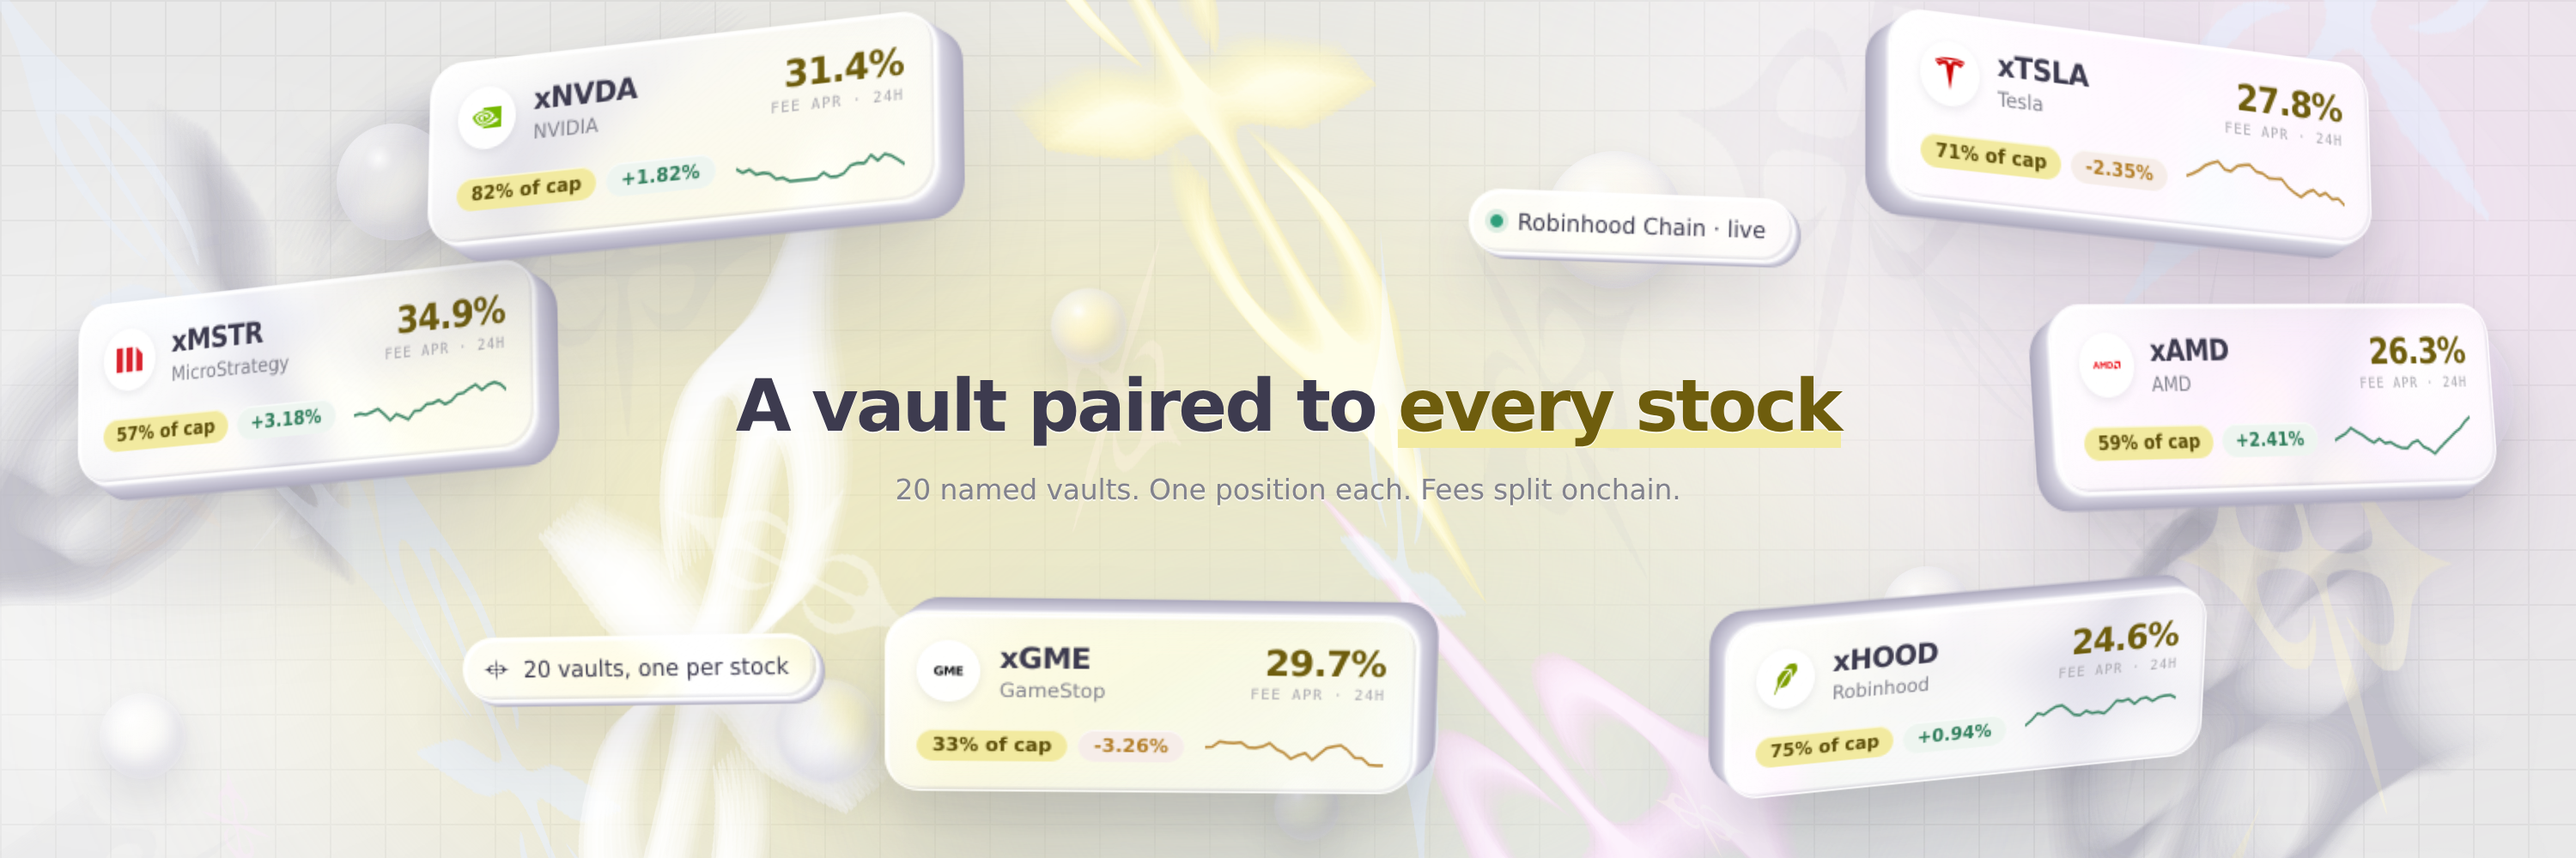
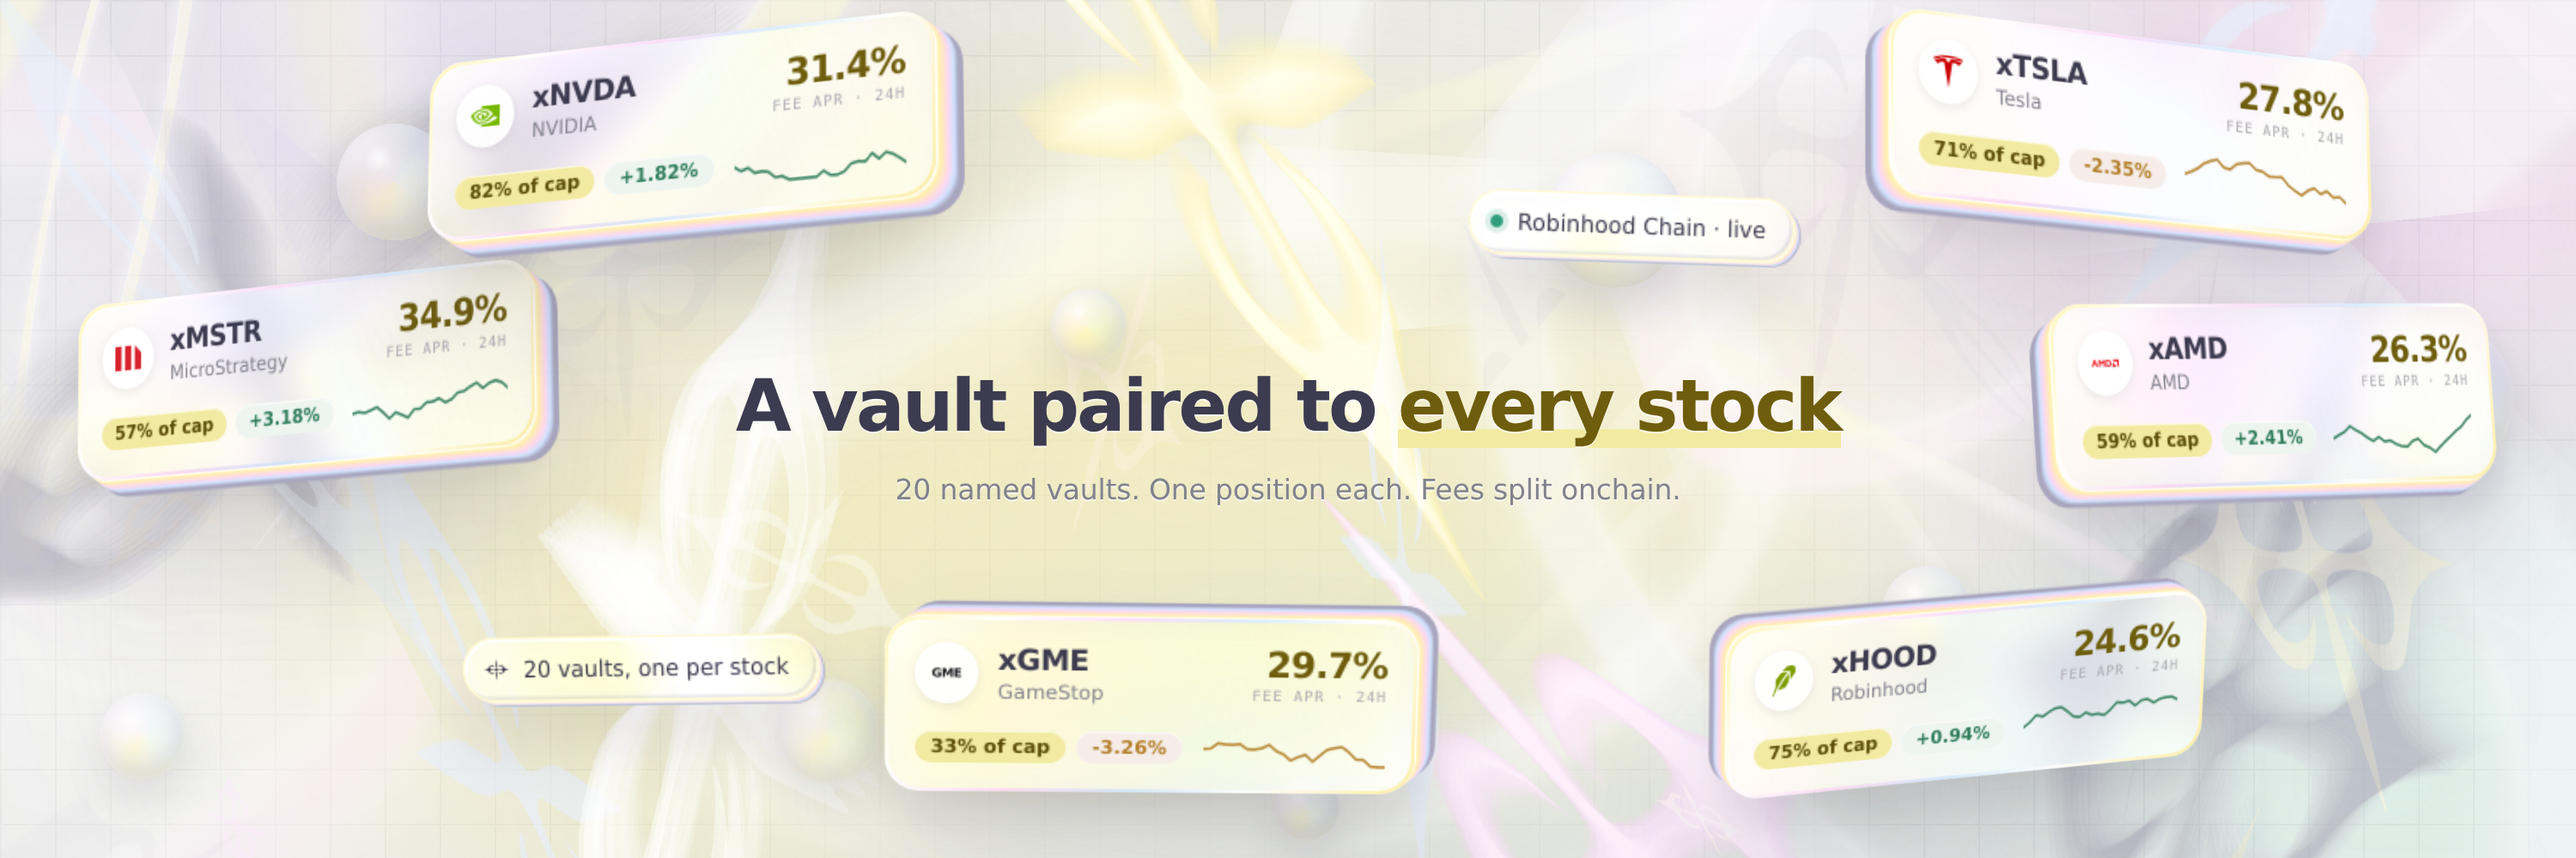
The header splits the light
Everything on it goes further through, and what comes through comes apart.

The slabs drop to around a quarter white and lean on a 22px backdrop blur, so
the scene behind is genuinely visible through them rather than tinted. Their
cut edges stop ramping through neutral grey: white light through a thick
edge disperses, so the ramp runs white, then a wide yellow band, then magenta,
then blue, then the shadow -- the yellow widest because that one is the
brand's. The border comes off and a gradient rim replaces it, carrying the
same spectrum with yellow at both ends. The pills' steps and the beads take
the same treatment, the beads with a conic sweep under their highlight.

The background stops being washes. A thick-bordered ellipse turned out of
plane reads as a tube of glass, so there are eight of them now at different
scales, tints and blurs, with fourteen caustics -- the bright lines light
draws as it comes through -- laid over them. The brand's shards stay but drop
to under half their opacity, behind the glass rather than in front of it.
Three more washes join the five: mint, lilac and a second yellow.

Claude-Session: https://claude.ai/code/session_01WE3rjawbSAaoLq39GWadM9

diff --git a/vesica-site/brand/x-header.html b/vesica-site/brand/x-header.html
@@ -34,11 +34,35 @@
 
   /* ---- the washes the light comes from ---- */
   .glow { position:absolute; border-radius:50%; filter:blur(100px); pointer-events:none; }
-  .g1 { width:860px; height:460px; left:210px; top:100px; background:rgba(242,234,160,.55); }
-  .g2 { width:560px; height:400px; left:1040px; top:-80px; background:rgba(255,207,254,.30); }
-  .g3 { width:500px; height:340px; left:-160px; top:170px; background:rgba(255,255,255,.62); }
-  .g4 { width:620px; height:300px; left:520px; top:300px; background:rgba(214,226,255,.38); }
-  .g5 { width:380px; height:380px; left:880px; top:-60px; background:rgba(255,255,255,.55); }
+  .g1 { width:900px; height:480px; left:190px; top:90px;  background:rgba(246,236,150,.50); }
+  .g2 { width:560px; height:400px; left:1040px; top:-80px; background:rgba(255,197,250,.34); }
+  .g3 { width:500px; height:340px; left:-160px; top:170px; background:rgba(255,255,255,.55); }
+  .g4 { width:620px; height:300px; left:500px; top:310px;  background:rgba(198,216,255,.42); }
+  .g5 { width:380px; height:380px; left:880px; top:-70px;  background:rgba(255,255,255,.48); }
+  .g6 { width:460px; height:320px; left:1180px; top:250px; background:rgba(186,255,226,.30); }
+  .g7 { width:420px; height:300px; left:40px;  top:-90px;  background:rgba(214,196,255,.30); }
+  .g8 { width:700px; height:260px; left:420px; top:150px;  background:rgba(255,246,190,.40); }
+
+
+  /* ---- the glass scene ----
+     A thick-bordered ellipse turned out of plane reads as a tube of glass; a
+     handful at different scales, tints and blurs is the refractive field the
+     reference is built on. The caustics are the bright lines light draws as
+     it comes through. */
+  .glass { position:absolute; inset:-120px; transform-style:preserve-3d; pointer-events:none; }
+  .rb {
+    position:absolute; display:block; border-radius:50%; border-style:solid;
+    box-shadow:
+      inset 0 0 60px rgba(255,255,255,.75),
+      inset 0 0 0 2px rgba(255,255,255,.85),
+      0 0 70px rgba(255,255,255,.45);
+  }
+  .ca {
+    position:absolute; display:block; border-radius:999px;
+    background:linear-gradient(90deg,
+      rgba(255,255,255,0), rgba(255,252,222,.95) 30%,
+      rgba(255,255,255,1) 52%, rgba(255,232,250,.85) 74%, rgba(255,255,255,0));
+  }
 
   /* ---- the mark, shattered through the depth of the frame ----
      Copies of the one path, each at its own z, its own pair of out-of-plane
@@ -60,10 +84,14 @@
     position:absolute; border-radius:50%; pointer-events:none;
     /* hollow, not milky: the middle is nearly clear so the field reads
        straight through, and the sphere is made of its highlight and its rim */
-    background:radial-gradient(circle at 36% 30%,
-      rgba(255,255,255,.96) 0%, rgba(255,255,255,.34) 13%,
-      rgba(255,255,255,.05) 34%, rgba(176,174,204,.10) 60%,
-      rgba(255,255,255,.58) 89%, rgba(255,255,255,.14) 100%);
+    background:
+      radial-gradient(circle at 36% 30%,
+        rgba(255,255,255,.96) 0%, rgba(255,255,255,.34) 13%,
+        rgba(255,255,255,.04) 34%, rgba(176,174,204,.08) 60%,
+        rgba(255,251,205,.62) 86%, rgba(255,214,246,.34) 94%, rgba(255,255,255,.10) 100%),
+      conic-gradient(from 210deg,
+        rgba(255,240,150,.30), rgba(255,208,244,.16), rgba(190,226,255,.18),
+        rgba(198,255,228,.12), rgba(255,240,150,.30));
     box-shadow:
       inset -2px -4px 15px rgba(116,114,152,.24),
       inset 3px 4px 13px rgba(255,255,255,.75),
@@ -80,15 +108,32 @@
   .card {
     position:absolute; z-index:5; border-radius:20px;
     background:linear-gradient(145deg,
-      rgba(255,255,255,.66) 0%, rgba(255,255,255,.38) 44%, rgba(255,255,255,.56) 100%);
-    border:1px solid rgba(255,255,255,.72);
-    backdrop-filter:blur(20px) saturate(1.7) brightness(1.06);
+      rgba(255,255,255,.42) 0%, rgba(255,255,255,.20) 46%, rgba(255,255,255,.34) 100%);
+    border:0;
+    backdrop-filter:blur(22px) saturate(1.75) brightness(1.08);
   }
   .card::before {
     content:""; position:absolute; inset:0; border-radius:inherit; pointer-events:none;
-    background:linear-gradient(118deg,
-      rgba(255,255,255,.85) 0%, rgba(255,255,255,0) 24%,
-      rgba(255,255,255,0) 70%, rgba(255,255,255,.42) 100%);
+    background:
+      linear-gradient(118deg,
+        rgba(255,255,255,.80) 0%, rgba(255,255,255,0) 22%,
+        rgba(255,255,255,0) 68%, rgba(255,255,255,.40) 100%),
+      linear-gradient(72deg,
+        rgba(255,244,182,.20) 0%, rgba(255,214,248,.09) 33%,
+        rgba(200,231,255,.09) 57%, rgba(255,246,196,.17) 100%);
+  }
+  /* the rim is where a thick edge splits the light hardest, so it carries the
+     spectrum outright -- yellow at both ends, because that one is the brand's */
+  .card::after {
+    content:""; position:absolute; inset:0; border-radius:inherit; pointer-events:none;
+    padding:1.6px;
+    background:linear-gradient(125deg,
+      rgba(255,246,180,.98) 0%, rgba(255,255,255,.92) 17%,
+      rgba(255,212,246,.72) 37%, rgba(202,230,255,.68) 56%,
+      rgba(255,255,255,.88) 74%, rgba(255,238,160,.98) 100%);
+    -webkit-mask:linear-gradient(#000 0 0) content-box, linear-gradient(#000 0 0);
+    -webkit-mask-composite:xor; mask:linear-gradient(#000 0 0) content-box, linear-gradient(#000 0 0);
+    mask-composite:exclude;
   }
   .vc { width:304px; padding:15px 17px 14px; }
   .vc > * { position:relative; z-index:1; }
@@ -117,124 +162,124 @@
   .v1 { left:40px; top:166px; transform:translateZ(46px) rotateX(6deg) rotateY(-17deg) rotateZ(-3deg);
     box-shadow:
       1.0px 0.7px 0 #FFFFFF,
-      2.0px 1.4px 0 #F1F1F5,
-      3.0px 2.1px 0 #E4E2EB,
-      4.0px 2.8px 0 #D6D4E1,
-      5.0px 3.5px 0 #D2D0DD,
-      6.0px 4.2px 0 #CECCDA,
-      7.0px 4.9px 0 #CAC8D7,
-      8.0px 5.6px 0 #C7C4D4,
-      9.0px 6.3px 0 #C3C1D1,
-      10.0px 7.0px 0 #BFBDCE,
-      11.0px 7.7px 0 #BCB9CA,
-      12.0px 8.4px 0 #B8B5C7,
-      13.0px 9.1px 0 #B4B2C4,
-      14.0px 9.8px 0 #B1AEC1,
-      15.0px 10.5px 0 #ADAABE,
-      0 46px 78px rgba(61,59,79,.18),
-      0 12px 24px rgba(61,59,79,.10),
-      inset 1.5px 1.5px 0 rgba(255,255,255,.96),
-      inset -1.5px -1.5px 0 rgba(138,136,162,.20); }
+      2.0px 1.4px 0 #FFF6C1,
+      3.0px 2.1px 0 #FFEFB1,
+      4.0px 2.8px 0 #FFE9C0,
+      5.0px 3.5px 0 #FFE4CF,
+      6.0px 4.2px 0 #FFDEDE,
+      7.0px 4.9px 0 #FFD9EE,
+      8.0px 5.6px 0 #F2DBF4,
+      9.0px 6.3px 0 #E2DFF9,
+      10.0px 7.0px 0 #D3E2FE,
+      11.0px 7.7px 0 #C4D1EB,
+      12.0px 8.4px 0 #B4B8D2,
+      13.0px 9.1px 0 #A9A6BE,
+      14.0px 9.8px 0 #A9A6BE,
+      15.0px 10.5px 0 #A9A6BE,
+      0 46px 78px rgba(61,59,79,.17),
+      0 12px 24px rgba(61,59,79,.09),
+      inset 1.5px 1.5px 0 rgba(255,255,255,.92),
+      inset -1.5px -1.5px 0 rgba(150,140,175,.16); }
   .v2 { left:262px; top:32px; transform:translateZ(86px) rotateX(9deg) rotateY(-14deg) rotateZ(-2deg);
     box-shadow:
       1.0px 0.7px 0 #FFFFFF,
-      2.0px 1.4px 0 #F2F2F6,
-      3.0px 2.2px 0 #E6E4EC,
-      4.0px 2.9px 0 #D9D7E3,
-      5.0px 3.6px 0 #D3D1DE,
-      6.0px 4.3px 0 #CFCDDB,
-      7.0px 5.0px 0 #CCCAD8,
-      8.0px 5.8px 0 #C8C6D5,
-      9.0px 6.5px 0 #C5C3D2,
-      10.0px 7.2px 0 #C2BFCF,
-      11.0px 7.9px 0 #BEBCCD,
-      12.0px 8.6px 0 #BBB8CA,
-      13.0px 9.4px 0 #B7B5C7,
-      14.0px 10.1px 0 #B4B1C4,
-      15.0px 10.8px 0 #B0AEC1,
-      16.0px 11.5px 0 #ADAABE,
-      0 46px 78px rgba(61,59,79,.18),
-      0 12px 24px rgba(61,59,79,.10),
-      inset 1.5px 1.5px 0 rgba(255,255,255,.96),
-      inset -1.5px -1.5px 0 rgba(138,136,162,.20); }
+      2.0px 1.4px 0 #FFF6C5,
+      3.0px 2.2px 0 #FFEFAF,
+      4.0px 2.9px 0 #FFEABD,
+      5.0px 3.6px 0 #FFE5CB,
+      6.0px 4.3px 0 #FFE0D9,
+      7.0px 5.0px 0 #FFDBE8,
+      8.0px 5.8px 0 #F9D9F2,
+      9.0px 6.5px 0 #EBDDF6,
+      10.0px 7.2px 0 #DCE0FB,
+      11.0px 7.9px 0 #CEE1FD,
+      12.0px 8.6px 0 #C0CAE5,
+      13.0px 9.4px 0 #B1B4CC,
+      14.0px 10.1px 0 #A9A6BE,
+      15.0px 10.8px 0 #A9A6BE,
+      16.0px 11.5px 0 #A9A6BE,
+      0 46px 78px rgba(61,59,79,.17),
+      0 12px 24px rgba(61,59,79,.09),
+      inset 1.5px 1.5px 0 rgba(255,255,255,.92),
+      inset -1.5px -1.5px 0 rgba(150,140,175,.16); }
   .v3 { left:520px; bottom:40px; transform:translateZ(24px) rotateX(-9deg) rotateY(3deg) rotateZ(1.4deg); filter:blur(0.35px);
     box-shadow:
       0.9px -0.7px 0 #FFFFFF,
-      1.8px -1.4px 0 #EFEEF3,
-      2.7px -2.1px 0 #DFDEE8,
-      3.6px -2.8px 0 #D3D1DF,
-      4.5px -3.5px 0 #CFCDDB,
-      5.4px -4.2px 0 #CBC9D7,
-      6.3px -4.9px 0 #C7C4D4,
-      7.2px -5.6px 0 #C2C0D0,
-      8.1px -6.3px 0 #BEBCCD,
-      9.0px -7.0px 0 #BAB7C9,
-      9.9px -7.7px 0 #B6B3C5,
-      10.8px -8.4px 0 #B1AEC2,
-      11.7px -9.1px 0 #ADAABE,
-      0 46px 78px rgba(61,59,79,.18),
-      0 12px 24px rgba(61,59,79,.10),
-      inset 1.5px 1.5px 0 rgba(255,255,255,.96),
-      inset -1.5px -1.5px 0 rgba(138,136,162,.20); }
+      1.8px -1.4px 0 #FFF4B6,
+      2.7px -2.1px 0 #FFEDB6,
+      3.6px -2.8px 0 #FFE7C8,
+      4.5px -3.5px 0 #FFE0D9,
+      5.4px -4.2px 0 #FFDAEB,
+      6.3px -4.9px 0 #F2DBF4,
+      7.2px -5.6px 0 #E0DFFA,
+      8.1px -6.3px 0 #CEE1FD,
+      9.0px -7.0px 0 #BCC5DF,
+      9.9px -7.7px 0 #AAA8C0,
+      10.8px -8.4px 0 #A9A6BE,
+      11.7px -9.1px 0 #A9A6BE,
+      0 46px 78px rgba(61,59,79,.17),
+      0 12px 24px rgba(61,59,79,.09),
+      inset 1.5px 1.5px 0 rgba(255,255,255,.92),
+      inset -1.5px -1.5px 0 rgba(150,140,175,.16); }
   .v4 { right:128px; top:30px; transform:translateZ(74px) rotateX(8deg) rotateY(16deg) rotateZ(2deg);
     box-shadow:
       -1.0px 0.7px 0 #FFFFFF,
-      -2.0px 1.4px 0 #F1F1F5,
-      -3.0px 2.1px 0 #E4E2EB,
-      -4.0px 2.8px 0 #D6D4E1,
-      -5.0px 3.5px 0 #D2D0DD,
-      -6.0px 4.2px 0 #CECCDA,
-      -7.0px 4.9px 0 #CAC8D7,
-      -8.0px 5.6px 0 #C7C4D4,
-      -9.0px 6.3px 0 #C3C1D1,
-      -10.0px 7.0px 0 #BFBDCE,
-      -11.0px 7.7px 0 #BCB9CA,
-      -12.0px 8.4px 0 #B8B5C7,
-      -13.0px 9.1px 0 #B4B2C4,
-      -14.0px 9.8px 0 #B1AEC1,
-      -15.0px 10.5px 0 #ADAABE,
-      0 46px 78px rgba(61,59,79,.18),
-      0 12px 24px rgba(61,59,79,.10),
-      inset 1.5px 1.5px 0 rgba(255,255,255,.96),
-      inset -1.5px -1.5px 0 rgba(138,136,162,.20); }
+      -2.0px 1.4px 0 #FFF6C1,
+      -3.0px 2.1px 0 #FFEFB1,
+      -4.0px 2.8px 0 #FFE9C0,
+      -5.0px 3.5px 0 #FFE4CF,
+      -6.0px 4.2px 0 #FFDEDE,
+      -7.0px 4.9px 0 #FFD9EE,
+      -8.0px 5.6px 0 #F2DBF4,
+      -9.0px 6.3px 0 #E2DFF9,
+      -10.0px 7.0px 0 #D3E2FE,
+      -11.0px 7.7px 0 #C4D1EB,
+      -12.0px 8.4px 0 #B4B8D2,
+      -13.0px 9.1px 0 #A9A6BE,
+      -14.0px 9.8px 0 #A9A6BE,
+      -15.0px 10.5px 0 #A9A6BE,
+      0 46px 78px rgba(61,59,79,.17),
+      0 12px 24px rgba(61,59,79,.09),
+      inset 1.5px 1.5px 0 rgba(255,255,255,.92),
+      inset -1.5px -1.5px 0 rgba(150,140,175,.16); }
   .v5 { right:34px; top:178px; transform:translateZ(36px) rotateX(5deg) rotateY(19deg) rotateZ(-2.4deg); filter:blur(0.3px);
     box-shadow:
       -1.0px 0.7px 0 #FFFFFF,
-      -2.0px 1.4px 0 #F0F0F4,
-      -3.0px 2.0px 0 #E2E0E9,
-      -4.0px 2.7px 0 #D4D2E0,
-      -5.0px 3.4px 0 #D1CEDC,
-      -6.0px 4.1px 0 #CDCAD9,
-      -7.0px 4.8px 0 #C9C6D5,
-      -8.0px 5.4px 0 #C5C2D2,
-      -9.0px 6.1px 0 #C1BECF,
-      -10.0px 6.8px 0 #BDBACB,
-      -11.0px 7.5px 0 #B9B6C8,
-      -12.0px 8.2px 0 #B5B2C5,
-      -13.0px 8.8px 0 #B1AEC1,
-      -14.0px 9.5px 0 #ADAABE,
-      0 46px 78px rgba(61,59,79,.18),
-      0 12px 24px rgba(61,59,79,.10),
-      inset 1.5px 1.5px 0 rgba(255,255,255,.96),
-      inset -1.5px -1.5px 0 rgba(138,136,162,.20); }
+      -2.0px 1.4px 0 #FFF5BC,
+      -3.0px 2.0px 0 #FFEEB3,
+      -4.0px 2.7px 0 #FFE8C4,
+      -5.0px 3.4px 0 #FFE2D4,
+      -6.0px 4.1px 0 #FFDCE4,
+      -7.0px 4.8px 0 #FAD9F1,
+      -8.0px 5.4px 0 #EADDF7,
+      -9.0px 6.1px 0 #D9E1FC,
+      -10.0px 6.8px 0 #C8D8F3,
+      -11.0px 7.5px 0 #B8BED8,
+      -12.0px 8.2px 0 #A9A6BE,
+      -13.0px 8.8px 0 #A9A6BE,
+      -14.0px 9.5px 0 #A9A6BE,
+      0 46px 78px rgba(61,59,79,.17),
+      0 12px 24px rgba(61,59,79,.09),
+      inset 1.5px 1.5px 0 rgba(255,255,255,.92),
+      inset -1.5px -1.5px 0 rgba(150,140,175,.16); }
   .v6 { right:196px; bottom:42px; transform:translateZ(-18px) rotateX(-11deg) rotateY(12deg) rotateZ(-1.4deg); filter:blur(0.7px);
     box-shadow:
       -0.9px -0.8px 0 #FFFFFF,
-      -1.8px -1.6px 0 #EEEDF2,
-      -2.7px -2.3px 0 #DCDBE5,
-      -3.6px -3.1px 0 #D2D0DE,
-      -4.5px -3.9px 0 #CECBDA,
-      -5.4px -4.7px 0 #C9C7D6,
-      -6.3px -5.5px 0 #C4C2D2,
-      -7.2px -6.2px 0 #C0BDCE,
-      -8.1px -7.0px 0 #BBB8CA,
-      -9.0px -7.8px 0 #B6B4C6,
-      -9.9px -8.6px 0 #B2AFC2,
-      -10.8px -9.4px 0 #ADAABE,
-      0 46px 78px rgba(61,59,79,.18),
-      0 12px 24px rgba(61,59,79,.10),
-      inset 1.5px 1.5px 0 rgba(255,255,255,.96),
-      inset -1.5px -1.5px 0 rgba(138,136,162,.20); }
+      -1.8px -1.6px 0 #FFF3B0,
+      -2.7px -2.3px 0 #FFECB9,
+      -3.6px -3.1px 0 #FFE5CD,
+      -4.5px -3.9px 0 #FFDEE0,
+      -5.4px -4.7px 0 #FCD9F1,
+      -6.3px -5.5px 0 #E8DDF7,
+      -7.2px -6.2px 0 #D4E2FD,
+      -8.1px -7.0px 0 #C1CCE7,
+      -9.0px -7.8px 0 #AEADC6,
+      -9.9px -8.6px 0 #A9A6BE,
+      -10.8px -9.4px 0 #A9A6BE,
+      0 46px 78px rgba(61,59,79,.17),
+      0 12px 24px rgba(61,59,79,.09),
+      inset 1.5px 1.5px 0 rgba(255,255,255,.92),
+      inset -1.5px -1.5px 0 rgba(150,140,175,.16); }
 
   .say {
     position:absolute; left:0; right:0; top:214px; text-align:center; z-index:6;
@@ -251,13 +296,13 @@
   .pill {
     position:absolute; z-index:6; display:inline-flex; align-items:center; gap:8px;
     padding:9px 15px 9px 11px; border-radius:999px;
-    background:linear-gradient(145deg, rgba(255,255,255,.72), rgba(255,255,255,.44));
-    border:1px solid rgba(255,255,255,.75);
-    backdrop-filter:blur(16px) saturate(1.6) brightness(1.05);
+    background:linear-gradient(145deg, rgba(255,255,255,.48), rgba(255,255,255,.24));
+    border:1px solid rgba(255,248,200,.80);
+    backdrop-filter:blur(18px) saturate(1.7) brightness(1.07);
     font-size:12.5px; font-weight:500; color:var(--ink); white-space:nowrap;
     box-shadow:
-      0.8px 0.6px 0 #FFFFFF, 1.6px 1.2px 0 #E4E2EC, 2.4px 1.8px 0 #D2D0DE,
-      3.2px 2.4px 0 #C2C0D0, 4.0px 3.0px 0 #B3B1C3,
+      0.8px 0.6px 0 #FFFFFF, 1.6px 1.2px 0 #FFF3B6, 2.4px 1.8px 0 #FFDCF2,
+      3.2px 2.4px 0 #CFE3FF, 4.0px 3.0px 0 #B3B1C3,
       0 22px 36px rgba(61,59,79,.14),
       inset 1.5px 1.5px 0 rgba(255,255,255,.96),
       inset -1.5px -1.5px 0 rgba(138,136,162,.18);
@@ -278,6 +323,34 @@
   <div class="glow g4"></div>
   <div class="glow g2"></div>
   <div class="glow g5"></div>
+  <div class="glow g6"></div>
+  <div class="glow g7"></div>
+  <div class="glow g8"></div>
+
+  <div class="glass">
+      <i class="rb" style="left:-260px;top:-300px;width:980px;height:760px;border-width:74px;border-color:rgba(255,252,226,0.62);filter:blur(2px);transform:translateZ(-191px) rotateX(-52deg) rotateY(34deg) rotateZ(-18deg)"></i>
+      <i class="rb" style="left:640px;top:-420px;width:1180px;height:900px;border-width:92px;border-color:rgba(255,255,255,0.50);filter:blur(6px);transform:translateZ(-154px) rotateX(38deg) rotateY(-46deg) rotateZ(26deg)"></i>
+      <i class="rb" style="left:-420px;top:120px;width:860px;height:620px;border-width:58px;border-color:rgba(255,240,250,0.44);filter:blur(10px);transform:translateZ(-219px) rotateX(26deg) rotateY(52deg) rotateZ(-40deg)"></i>
+      <i class="rb" style="left:880px;top:120px;width:900px;height:680px;border-width:66px;border-color:rgba(250,252,255,0.52);filter:blur(4px);transform:translateZ(-197px) rotateX(-30deg) rotateY(-38deg) rotateZ(34deg)"></i>
+      <i class="rb" style="left:180px;top:-180px;width:700px;height:560px;border-width:44px;border-color:rgba(255,250,214,0.38);filter:blur(14px);transform:translateZ(-222px) rotateX(44deg) rotateY(28deg) rotateZ(-62deg)"></i>
+      <i class="rb" style="left:380px;top:180px;width:1020px;height:520px;border-width:54px;border-color:rgba(255,255,255,0.46);filter:blur(8px);transform:translateZ(-262px) rotateX(-20deg) rotateY(40deg) rotateZ(12deg)"></i>
+      <i class="rb" style="left:-160px;top:-60px;width:520px;height:520px;border-width:38px;border-color:rgba(255,253,232,0.58);filter:blur(1px);transform:translateZ(-171px) rotateX(18deg) rotateY(-56deg) rotateZ(48deg)"></i>
+      <i class="rb" style="left:1020px;top:-140px;width:620px;height:600px;border-width:42px;border-color:rgba(255,246,252,0.55);filter:blur(3px);transform:translateZ(-77px) rotateX(-40deg) rotateY(30deg) rotateZ(-22deg)"></i>
+      <i class="ca" style="left:998px;top:432px;width:483px;height:10px;opacity:0.30;filter:blur(4.5px);transform:rotate(57deg)"></i>
+      <i class="ca" style="left:898px;top:317px;width:416px;height:12px;opacity:0.37;filter:blur(4.9px);transform:rotate(-48deg)"></i>
+      <i class="ca" style="left:821px;top:129px;width:506px;height:23px;opacity:0.39;filter:blur(2.6px);transform:rotate(-19deg)"></i>
+      <i class="ca" style="left:1302px;top:-2px;width:688px;height:25px;opacity:0.34;filter:blur(9.2px);transform:rotate(-16deg)"></i>
+      <i class="ca" style="left:54px;top:392px;width:576px;height:8px;opacity:0.63;filter:blur(10.3px);transform:rotate(67deg)"></i>
+      <i class="ca" style="left:770px;top:44px;width:349px;height:14px;opacity:0.44;filter:blur(6.8px);transform:rotate(33deg)"></i>
+      <i class="ca" style="left:1032px;top:403px;width:493px;height:13px;opacity:0.46;filter:blur(3.2px);transform:rotate(28deg)"></i>
+      <i class="ca" style="left:-34px;top:427px;width:253px;height:7px;opacity:0.55;filter:blur(8.7px);transform:rotate(40deg)"></i>
+      <i class="ca" style="left:892px;top:420px;width:360px;height:14px;opacity:0.32;filter:blur(6.2px);transform:rotate(-46deg)"></i>
+      <i class="ca" style="left:947px;top:14px;width:390px;height:15px;opacity:0.31;filter:blur(6.4px);transform:rotate(20deg)"></i>
+      <i class="ca" style="left:-139px;top:-17px;width:665px;height:24px;opacity:0.62;filter:blur(3.3px);transform:rotate(-64deg)"></i>
+      <i class="ca" style="left:40px;top:397px;width:248px;height:13px;opacity:0.35;filter:blur(5.5px);transform:rotate(51deg)"></i>
+      <i class="ca" style="left:350px;top:187px;width:345px;height:10px;opacity:0.38;filter:blur(9.5px);transform:rotate(-29deg)"></i>
+      <i class="ca" style="left:-89px;top:-29px;width:408px;height:10px;opacity:0.68;filter:blur(4.1px);transform:rotate(58deg)"></i>
+  </div>
 
   <div class="field">
       <i class="sh" style="left:-140px;top:-80px;width:540px;height:540px;background:#C6C5CE;opacity:0.040;filter:blur(9.0px);mix-blend-mode:multiply;transform:translateZ(-300px) rotateX(-28deg) rotateY(38deg) rotateZ(-18deg) scale(1.35,0.85)"></i>
